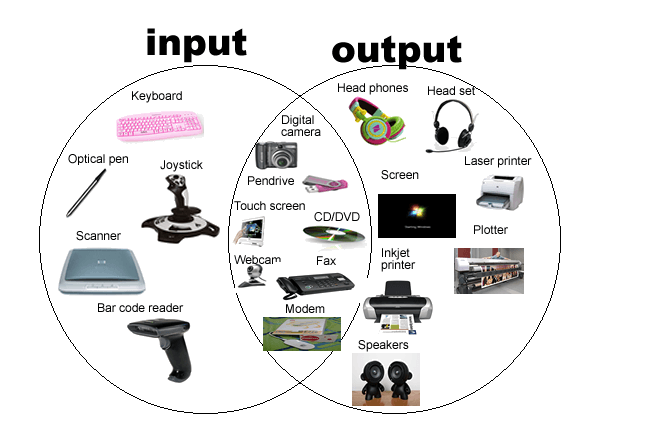
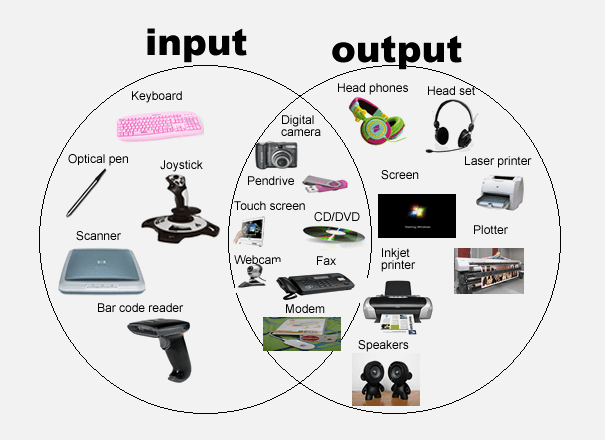
Add OS layer images

diff --git a/src/pages/OsLayers.vue b/src/pages/OsLayers.vue
@@ -1,4 +1,5 @@
 <script setup>
+import ImageFigure from "../components/common/ImageFigure.vue";
 import MainHeading from "../components/common/MainHeading.vue";
 import MinorHeading from "../components/common/MinorHeading.vue";
 import PrevNextNav from "../components/common/PrevNextNav.vue";
@@ -33,6 +34,12 @@ const prevNextNavData = {
             user-facing tasks.
         </p>
 
+        <ImageFigure
+            src="/public/images/os-layers/os-layers.png"
+            alt="Diagram of the typical arrangement of operating system layers."
+            caption="Typical arrangement of the layers of operating systems with the kernel at the centre."
+        />
+
         <MinorHeading id="kernel">Kernel</MinorHeading>
 
         <p>
@@ -62,24 +69,34 @@ const prevNextNavData = {
 
         <p>
             The kernel enforces access control using user IDs and group IDs
-            coupled with permission bits stored on files and resources, such as
-            read, write and execute. For example, if a user has a write
-            permission bit set on a file, they are able to overwrite its
-            contents.
+            coupled with
+            <a href="/file-management#file-attributes" class="link"
+                >permission bits or attributes</a
+            >
+            stored on files and resources, such as read, write and execute. For
+            example, if a user has a write permission bit set on a file, they
+            are able to overwrite its contents.
         </p>
 
         <h4 class="h3">Ring Architecture</h4>
 
         <p>
             Modern CPUs implement privilege levels using rings. Ring 0 offers
-            full access and is used by the kernel, while ring 3 offers limited
-            access and is used by general applications.
+            full access and is used by the kernel, ring 3 offers limited access
+            and is used by general applications while the rings in between are
+            used by device drivers. Modern operatings systems only use two or
+            three rings.
         </p>
 
         <p>
             This separation ensures that user-level code cannot directly execute
             privileged instructions or access kernel memory.
         </p>
+
+        <ImageFigure
+            src="/public/images/os-layers/ring-architecture.png"
+            alt="Diagram of how privilege rings are arranged with most privileges lying at ring 0 in the centre."
+        />
 
         <MinorHeading id="memory-management">Memory Management</MinorHeading>
 

diff --git a/src/pages/FileManagement.vue b/src/pages/FileManagement.vue
@@ -460,7 +460,7 @@ const fileSizeDecimalData = [
             open it.
         </p>
 
-        <h4 class="h3">File Attributes</h4>
+        <h4 class="h3" id="file-attributes">File Attributes</h4>
 
         <p>
             These are on/off flags that indicate a certain property or behaviour
